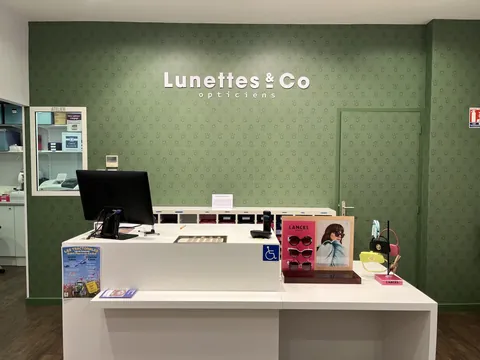
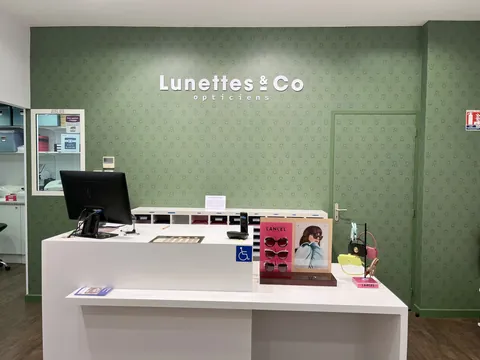
Photos du 03/11 : Bias (galerie, accueil, retouche locale), Passage (galerie), examen de vue sans personne, vue-rouge recadrée

diff --git a/opticien-le-passage/index.html b/opticien-le-passage/index.html
@@ -200,14 +200,14 @@
       <p>Le 100% Santé est une sélection de lunettes de vue (monture et verres), sans reste à charge avec une
             complémentaire santé responsable ou la Complémentaire santé solidaire. Il concerne toute la famille. Devis gratuit en magasin.</p>
     </div>
-    <img src="../assets/img/passage-mur-montures.jpg" alt="Mur de montures au magasin du Passage" loading="lazy" width="1600" height="1200" srcset="../assets/img/passage-mur-montures-480.webp 480w, ../assets/img/passage-mur-montures-800.webp 800w" sizes="(max-width: 760px) 100vw, 600px">
+    <img src="../assets/img/passage-gros-plan-loumy.jpg" alt="Gros plan d'une monture Loumy sur un socle, devant le mur en terrazzo du magasin du Passage" loading="lazy" width="1600" height="1200" srcset="../assets/img/passage-gros-plan-loumy-480.webp 480w, ../assets/img/passage-gros-plan-loumy-800.webp 800w" sizes="(max-width: 760px) 100vw, 600px">
   </div>
 </section>
 
 <section style="padding-top:0" class="bg-white">
   <div class="wrap">
     <div class="section-head"><span class="kicker">Le magasin en images</span></div>
-    <div class="gallery"><img src="../assets/img/passage-galerie-1.jpg" alt="Vue d'ensemble du magasin du Passage, suspensions orange et fauteuils" loading="lazy" width="1400" height="1050" srcset="../assets/img/passage-galerie-1-480.webp 480w, ../assets/img/passage-galerie-1-800.webp 800w" sizes="(max-width: 760px) 100vw, 600px"><img src="../assets/img/passage-galerie-2.jpg" alt="Étagères de montures sur mur bleu, au magasin du Passage" loading="lazy" width="1400" height="1050" srcset="../assets/img/passage-galerie-2-480.webp 480w, ../assets/img/passage-galerie-2-800.webp 800w, ../assets/img/passage-galerie-2-1200.webp 1200w" sizes="(max-width: 760px) 100vw, 600px"><img src="../assets/img/passage-galerie-3.jpg" alt="Table de conseil sous les suspensions orange, au magasin du Passage" loading="lazy" width="1400" height="1050" srcset="../assets/img/passage-galerie-3-480.webp 480w, ../assets/img/passage-galerie-3-800.webp 800w" sizes="(max-width: 760px) 100vw, 600px"><img src="../assets/img/passage-galerie-4.jpg" alt="Fauteuils et présentoirs de montures, au magasin du Passage" loading="lazy" width="1400" height="1050" srcset="../assets/img/passage-galerie-4-480.webp 480w, ../assets/img/passage-galerie-4-800.webp 800w" sizes="(max-width: 760px) 100vw, 600px"></div>
+    <div class="gallery"><img src="../assets/img/passage-galerie-1.jpg" alt="Vue d'ensemble du magasin du Passage, suspensions orange et fauteuils" loading="lazy" width="1400" height="1050" srcset="../assets/img/passage-galerie-1-480.webp 480w, ../assets/img/passage-galerie-1-800.webp 800w" sizes="(max-width: 760px) 100vw, 600px"><img src="../assets/img/passage-galerie-2.jpg" alt="Étagères de montures sur mur bleu, au magasin du Passage" loading="lazy" width="1400" height="1050" srcset="../assets/img/passage-galerie-2-480.webp 480w, ../assets/img/passage-galerie-2-800.webp 800w, ../assets/img/passage-galerie-2-1200.webp 1200w" sizes="(max-width: 760px) 100vw, 600px"><img src="../assets/img/passage-galerie-3.jpg" alt="Table de conseil sous les suspensions orange, au magasin du Passage" loading="lazy" width="1400" height="1050" srcset="../assets/img/passage-galerie-3-480.webp 480w, ../assets/img/passage-galerie-3-800.webp 800w" sizes="(max-width: 760px) 100vw, 600px"><img src="../assets/img/passage-galerie-4.jpg" alt="Étagères en bois et montures de soleil devant le mur en terrazzo, au magasin du Passage" loading="lazy" width="1400" height="1050" srcset="../assets/img/passage-galerie-4-480.webp 480w, ../assets/img/passage-galerie-4-800.webp 800w, ../assets/img/passage-galerie-4-1200.webp 1200w" sizes="(max-width: 760px) 100vw, 600px"></div>
   </div>
 </section>
 

diff --git a/opticien-bias/index.html b/opticien-bias/index.html
@@ -208,7 +208,7 @@
 <section style="padding-top:0" class="bg-white">
   <div class="wrap">
     <div class="section-head"><span class="kicker">Le magasin en images</span></div>
-    <div class="gallery g3"><img src="../assets/img/bias-galerie-1.jpg" alt="Table de conseil au magasin de Bias" loading="lazy" width="1400" height="1050" srcset="../assets/img/bias-galerie-1-480.webp 480w, ../assets/img/bias-galerie-1-800.webp 800w" sizes="(max-width: 760px) 100vw, 600px"><img src="../assets/img/bias-galerie-2.jpg" alt="L'espace de vente du magasin de Bias" loading="lazy" width="1400" height="1050" srcset="../assets/img/bias-galerie-2-480.webp 480w, ../assets/img/bias-galerie-2-800.webp 800w" sizes="(max-width: 760px) 100vw, 600px"><img src="../assets/img/bias-galerie-3.jpg" alt="Présentoirs de montures au magasin de Bias" loading="lazy" width="1400" height="1050" srcset="../assets/img/bias-galerie-3-480.webp 480w, ../assets/img/bias-galerie-3-800.webp 800w" sizes="(max-width: 760px) 100vw, 600px"></div>
+    <div class="gallery g3"><img src="../assets/img/bias-galerie-1.jpg" alt="Mur de lunettes de soleil au magasin de Bias" loading="lazy" width="1400" height="1050" srcset="../assets/img/bias-galerie-1-480.webp 480w, ../assets/img/bias-galerie-1-800.webp 800w, ../assets/img/bias-galerie-1-1200.webp 1200w" sizes="(max-width: 760px) 100vw, 600px"><img src="../assets/img/bias-galerie-2.jpg" alt="Présentoir de montures de vue et miroir au magasin de Bias" loading="lazy" width="1400" height="1050" srcset="../assets/img/bias-galerie-2-480.webp 480w, ../assets/img/bias-galerie-2-800.webp 800w" sizes="(max-width: 760px) 100vw, 600px"><img src="../assets/img/bias-galerie-3.jpg" alt="Montures de vue Vicomte A en gros plan sur un présentoir, au magasin de Bias" loading="lazy" width="1400" height="1050" srcset="../assets/img/bias-galerie-3-480.webp 480w, ../assets/img/bias-galerie-3-800.webp 800w, ../assets/img/bias-galerie-3-1200.webp 1200w" sizes="(max-width: 760px) 100vw, 600px"></div>
   </div>
 </section>
 

diff --git a/lunettes-de-vue/index.html b/lunettes-de-vue/index.html
@@ -151,7 +151,7 @@ complémentaire santé responsable ou la Complémentaire santé solidaire. Il co
       <p>Traitement anti-reflet, verres qui s'éclaircissent et foncent selon la lumière (photochromiques), verres avec filtre
       anti-lumière bleue, qui filtrent une partie de la lumière émise par les écrans (ordinateur, téléphone, tablette), verres antifatigue.</p>
     </div>
-    <img src="../assets/img/vue-rouge.jpg" alt="Monture de vue rouge oversize posée sur une étagère en bois" loading="lazy" width="1600" height="1200" srcset="../assets/img/vue-rouge-480.webp 480w, ../assets/img/vue-rouge-800.webp 800w, ../assets/img/vue-rouge-1200.webp 1200w" sizes="(max-width: 760px) 100vw, 600px">
+    <img src="../assets/img/vue-rouge.jpg" alt="Étagères en bois et montures de vue Chroma by Etnia Barcelona, au magasin du Passage" loading="lazy" width="1600" height="1200" srcset="../assets/img/vue-rouge-480.webp 480w, ../assets/img/vue-rouge-800.webp 800w, ../assets/img/vue-rouge-1200.webp 1200w" sizes="(max-width: 760px) 100vw, 600px">
   </div>
 </section>
 

diff --git a/teleconsultation-ophtalmologie/index.html b/teleconsultation-ophtalmologie/index.html
@@ -95,7 +95,7 @@
   <a href="https://www.doctolib.fr/magasin-d-optique/bias/lunettes-co-bias-teleconsultation-ophtalmologique/booking/motives?specialityId=13512&telehealth=false&placeId=practice-801197&source=profile" target="_blank" rel="noopener">Bias</a></p>
     </div>
     <div class="hero-media">
-      <img src="../assets/img/examen-de-vue.jpg" alt="Salle d'examen de vue équipée, au magasin du Passage" width="1600" height="1200" srcset="../assets/img/examen-de-vue-480.webp 480w, ../assets/img/examen-de-vue-800.webp 800w" sizes="(max-width: 760px) 100vw, 600px" fetchpriority="high">
+      <img src="../assets/img/examen-de-vue.jpg" alt="Appareil d'examen de vue (réfracteur) dans une salle d'examen, en magasin" width="1600" height="1200" srcset="../assets/img/examen-de-vue-480.webp 480w, ../assets/img/examen-de-vue-800.webp 800w, ../assets/img/examen-de-vue-1200.webp 1200w" sizes="(max-width: 760px) 100vw, 600px" fetchpriority="high">
       <i class="shape s1 c-blue"></i>
       <i class="shape s2 c-coral"></i>
     </div>

diff --git a/index.html b/index.html
@@ -433,7 +433,7 @@
       </div>
       <p><a href="teleconsultation-ophtalmologie/">Comment ça se passe ? →</a></p>
     </div>
-    <img src="assets/img/examen-de-vue.jpg" alt="Salle d'examen de vue équipée, au magasin du Passage" loading="lazy" width="1600" height="1200" srcset="assets/img/examen-de-vue-480.webp 480w, assets/img/examen-de-vue-800.webp 800w" sizes="(max-width: 760px) 100vw, 600px">
+    <img src="assets/img/examen-de-vue.jpg" alt="Appareil d'examen de vue (réfracteur) dans une salle d'examen, en magasin" loading="lazy" width="1600" height="1200" srcset="assets/img/examen-de-vue-480.webp 480w, assets/img/examen-de-vue-800.webp 800w, assets/img/examen-de-vue-1200.webp 1200w" sizes="(max-width: 760px) 100vw, 600px">
   </div>
 </section>
 

diff --git a/build/pages.py b/build/pages.py
@@ -106,7 +106,7 @@ def home(p):
       </div>
       <p><a href="{p}teleconsultation-ophtalmologie/">Comment ça se passe ? →</a></p>
     </div>
-    <img src="{p}assets/img/examen-de-vue.jpg" alt="Salle d'examen de vue équipée, au magasin du Passage" loading="lazy" width="1600" height="1200">
+    <img src="{p}assets/img/examen-de-vue.jpg" alt="Appareil d'examen de vue (réfracteur) dans une salle d'examen, en magasin" loading="lazy" width="1600" height="1200">
   </div>
 </section>
 
@@ -230,7 +230,7 @@ def store_page(store):
         <li>Paiement en plusieurs fois, jusqu'à 4 fois.</li>"""
             around = """Nous accueillons les clients du Passage, d'Agen, de Boé, Bon-Encontre, Brax, Colayrac-Saint-Cirq, Estillac,
             Foulayronnes, Pont-du-Casse et Roquefort. Repères : zone commerciale de Lacassagne, à proximité d'Action et de Basic-Fit."""
-            img2 = ("passage-mur-montures.jpg", "Mur de montures au magasin du Passage")
+            img2 = ("passage-gros-plan-loumy.jpg", "Gros plan d'une monture Loumy sur un socle, devant le mur en terrazzo du magasin du Passage")
             faqs = [("Faut-il prendre rendez-vous au Passage ?",
                      "Vous pouvez passer sans rendez-vous, mais pour un examen de vue, mieux vaut réserver : il demande du temps. "
                      "Avec un rendez-vous, vous êtes pris en charge dès votre arrivée."),
@@ -364,7 +364,7 @@ def teleconsultation(p):
     ]
     return f"""
 {page_hero(p, "Service en magasin, sur rendez-vous", "Téléconsultation d'ophtalmologie augmentée, au Passage et à Bias",
-           intro, "examen-de-vue.jpg", "Salle d'examen de vue équipée, au magasin du Passage", buttons, ("c-blue", "c-coral"))}
+           intro, "examen-de-vue.jpg", "Appareil d'examen de vue (réfracteur) dans une salle d'examen, en magasin", buttons, ("c-blue", "c-coral"))}
 
 <section class="bg-white">
   <div class="wrap two-col">
@@ -494,7 +494,7 @@ def lunettes_vue(p):
       <p>Traitement anti-reflet, verres qui s'éclaircissent et foncent selon la lumière (photochromiques), verres avec filtre
       anti-lumière bleue, qui filtrent une partie de la lumière émise par les écrans (ordinateur, téléphone, tablette), verres antifatigue.</p>
     </div>
-    <img src="{p}assets/img/vue-rouge.jpg" alt="Monture de vue rouge oversize posée sur une étagère en bois" loading="lazy" width="1600" height="1200">
+    <img src="{p}assets/img/vue-rouge.jpg" alt="Étagères en bois et montures de vue Chroma by Etnia Barcelona, au magasin du Passage" loading="lazy" width="1600" height="1200">
   </div>
 </section>
 

diff --git a/build/site_data.py b/build/site_data.py
@@ -49,7 +49,7 @@ PASSAGE = {
         ("passage-galerie-1.jpg", "Vue d'ensemble du magasin du Passage, suspensions orange et fauteuils"),
         ("passage-galerie-2.jpg", "Étagères de montures sur mur bleu, au magasin du Passage"),
         ("passage-galerie-3.jpg", "Table de conseil sous les suspensions orange, au magasin du Passage"),
-        ("passage-galerie-4.jpg", "Fauteuils et présentoirs de montures, au magasin du Passage"),
+        ("passage-galerie-4.jpg", "Étagères en bois et montures de soleil devant le mur en terrazzo, au magasin du Passage"),
     ],
     "image": "passage-magasin.jpg",
     "image_alt": "Intérieur du magasin Lunettes & Co au Passage, près d'Agen",
@@ -90,10 +90,10 @@ BIAS = {
         ("Très très professionnel. Accueil très chaleureux avec des conseils personnalisés. Suivi de votre dossier avec le plus grand soin jusqu'à ce que vous ayez vos lunettes sur le nez . Je recommande et j'y retournerai", "Marine T.", "avril 2024"),
         ("Accueil chaleureux , Jimmy et Anne sont très pro et trouveront toujours une solution adaptée.", "Idrelythïa", "décembre 2025"),
     ],
-    "gallery": [  # photos provisoires : Karine fournit de nouvelles photos de Bias
-        ("bias-galerie-1.jpg", "Table de conseil au magasin de Bias"),
-        ("bias-galerie-2.jpg", "L'espace de vente du magasin de Bias"),
-        ("bias-galerie-3.jpg", "Présentoirs de montures au magasin de Bias"),
+    "gallery": [  # photos de Bias du 03/11/2026, retouchées avec build/retouche_bias.py
+        ("bias-galerie-1.jpg", "Mur de lunettes de soleil au magasin de Bias"),
+        ("bias-galerie-2.jpg", "Présentoir de montures de vue et miroir au magasin de Bias"),
+        ("bias-galerie-3.jpg", "Montures de vue Vicomte A en gros plan sur un présentoir, au magasin de Bias"),
     ],
     "image": "bias-magasin.jpg",
     "image_alt": "Intérieur du magasin Lunettes & Co à Bias, galerie Auchan Ponservat",

diff --git a/build/retouche_bias.py b/build/retouche_bias.py
@@ -1,0 +1,29 @@
+"""Retouche des photos de Bias (test B validé par Karine le 03/11/2026) : correction locale, naturelle.
+
+Usage : python3 build/retouche_bias.py photo.jpeg sortie.jpg
+Équilibre les blancs sur les parties claires (80 % supérieurs de la luminance, correction partielle à 80 %), léger
+éclaircissement (gamma 0,82), très légère chaleur, saturation +5 %. Jamais d'IA générative (Magnific relight a ajouté
+des objets inexistants). Les originaux ne sont jamais écrasés. Ensuite : optimise_images.py pour les WebP.
+"""
+import sys
+from PIL import Image, ImageEnhance
+
+
+def correct(im):
+    small = im.resize((200, 150))
+    px = list(small.getdata())
+    lum = sorted(sum(p) / 3 for p in px)
+    thr = lum[int(len(lum) * 0.8)]
+    bright = [p for p in px if sum(p) / 3 >= thr]
+    ref = [sum(p[i] for p in bright) / len(bright) for i in range(3)]
+    m = sum(ref) / 3
+    g = [1 + 0.8 * (m / r - 1) for r in ref]
+    g[0] *= 1.02
+    g[2] *= 0.98
+    luts = [[int(255 * min(1, i / 255 * g[c]) ** 0.82) for i in range(256)] for c in range(3)]
+    return ImageEnhance.Color(im.point(luts[0] + luts[1] + luts[2])).enhance(1.05)
+
+
+if __name__ == "__main__":
+    src, dst = sys.argv[1:3]
+    correct(Image.open(src).convert("RGB")).save(dst, quality=92)
